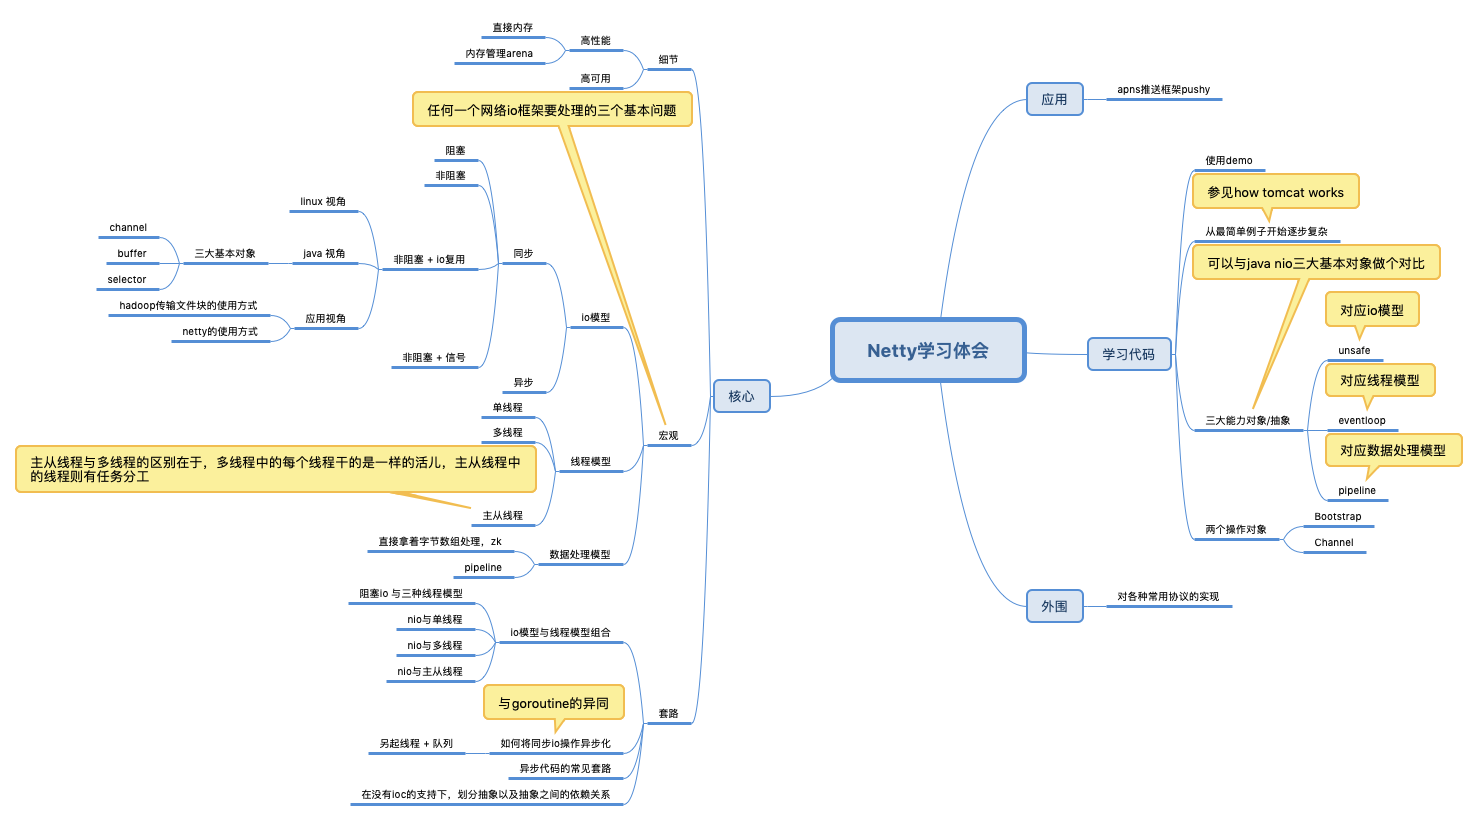
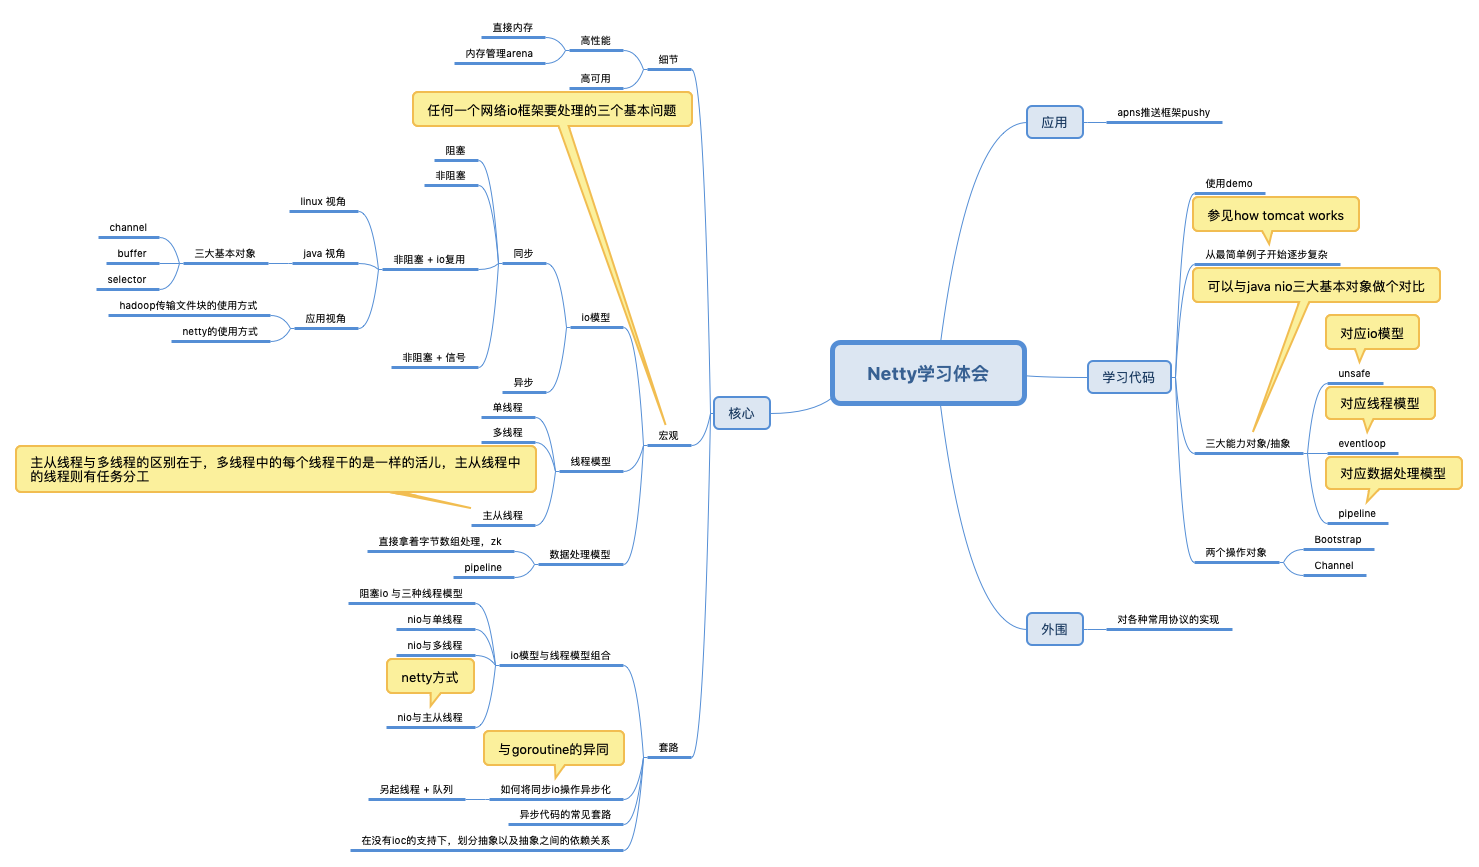
[fix]add code

diff --git a/_posts/Technology/Netty/2017-10-13-learn_netty.md b/_posts/Technology/Netty/2017-10-13-learn_netty.md
@@ -10,11 +10,8 @@ keywords: JAVA netty
 
 ## 前言
 
-到目前为止，笔者关于netty写了十几篇博客，内容非常零碎，笔者一直想着有一个总纲的东西来作为主干，来将这些零碎place it in context。本文是一个初步的尝试，会随着理解的深入保持更新。
-
-从上往下看，netty有哪些东西
+到目前为止，笔者关于netty写了十几篇博客，内容非常零碎，笔者一直想着有一个总纲的东西来作为主干，来将这些零碎place it in context。所以梳理了一张图，从上往下“俯视”看，netty有哪些东西?
 
 ![](/public/upload/netty/learn_netty.png)
 
-
-为什么很多人会觉得学习netty代码比较难（这也是笔者最初的感受）？**因为对于很多人来说，是先接触了netty，才第一次接触nio、同步操作异步化 等技术/套路，也就是上图“核心” 部分的东西才第一次接触，除了要理解netty代码本身的抽象之外，还需理解很多新概念。**并且，极易带来的错误观念是，因为netty是这样用的，便容易认为这些特性只能这样用。比如一想起nio便认为只能像netty那样用，但hadoop中传输文件块代码 便与netty的有所不同。 
+当这个图有一个雏形时，笔者突然有了一个意外收获，心中很久以来的疑惑也得到了解答。那就是为什么很多人会觉得学习netty代码比较难（这也是笔者最初的感受）？**因为对于很多人来说，是先接触了netty，才第一次接触nio、同步操作异步化 等技术/套路，也就是上图“核心” 部分的东西才第一次接触，除了要理解netty代码本身的抽象之外，还需理解很多新概念。**并且，极易形成的错误观念是：因为netty是这样用的，便容易认为这些“新概念特性”只能这样用。比如，一想起nio便认为只能像netty那样用，但hadoop中传输文件块的代码 便与netty对nio的应用方式有所不同。 
